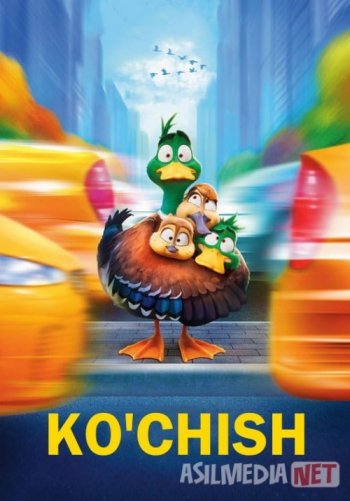
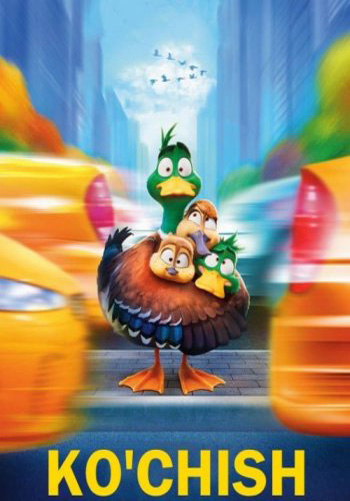
add new cartoon

diff --git a/index.html b/index.html
@@ -93,7 +93,7 @@
             <li class="multik_item">
                 <a href="https://t.me/Multikland_TV/1459">
                     <img src="./images/ajdar.png" alt="">
-                    <h4>Ajdar o'rgatuvchilar</h4>
+                    <h4>Ajdar orgatuvchilar</h4>
                 </a>
             </li>
 
@@ -154,6 +154,13 @@
             </li>
 
             <li class="multik_item">
+                <a href="https://t.me/Multikland_TV/1484">
+                    <img src="./images/orgimchak.jpg" alt="">
+                    <h4>Izquvar orgimchak</h4>
+                </a>
+            </li>
+
+            <li class="multik_item">
                 <a href="https://t.me/Multikland_TV/1322">
                     <img src="./images/elemental.jpg" alt="">
                     <h4>Elemental</h4>
@@ -198,14 +205,14 @@
             <li class="multik_item">
                 <a href="https://t.me/Multikland_TV/1456">
                     <img src="./images/garoyib_futbol.webp" alt="">
-                    <h4>G'aroyib futbol</h4>
+                    <h4>Garoyib futbol</h4>
                 </a>
             </li>
 
             <li class="multik_item">
                 <a href="https://t.me/Multikland_TV/1340">
                     <img src="./images/sirk.jpg" alt="">
-                    <h4>G'aroyib sirk</h4>
+                    <h4>Garoyib sirk</h4>
                 </a>
             </li>
 
@@ -261,7 +268,7 @@
             <li class="multik_item">
                 <a href="https://t.me/Multikland_TV/1440">
                     <img src="./images/kochish.jpg" alt="">
-                    <h4>Ko'chish</h4>
+                    <h4>Kochish</h4>
                 </a>
             </li>
 
@@ -338,7 +345,7 @@
             <li class="multik_item">
                 <a href="https://t.me/Multikland_TV/1390">
                     <img src="./images/robotdost.jpg" alt="">
-                    <h4>Mening robot do'stim</h4>
+                    <h4>Mening robot dostim</h4>
                 </a>
             </li>
 
@@ -346,6 +353,13 @@
                 <a href="https://t.me/Multikland_TV/1454">
                     <img src="./images/mumiyo.jpg" alt="">
                     <h4>Mitti mumiyolar</h4>
+                </a>
+            </li>
+
+            <li class="multik_item">
+                <a href="https://t.me/Multikland_TV/1487">
+                    <img src="./images/orion.jpg" alt="">
+                    <h4>Orion va zulmat</h4>
                 </a>
             </li>
 
@@ -359,28 +373,28 @@
             <li class="multik_item">
                 <a href="https://t.me/Multikland_TV/1433">
                     <img src="./images/olga.jpg" alt="">
-                    <h4>Olg'a</h4>
+                    <h4>Olga</h4>
                 </a>
             </li>
 
             <li class="multik_item">
                 <a href="https://t.me/Multikland_TV/1297">
                     <img src="./images/oyinchoqlar.jpg" alt="">
-                    <h4>O'yinchoqlar tarixi</h4>
+                    <h4>Oyinchoqlar tarixi</h4>
                 </a>
             </li>
 
             <li class="multik_item">
                 <a href="https://t.me/Multikland_TV/1435">
                     <img src="./images/sayyoralikmehmon.jpg" alt="">
-                    <h4>O'zga sayyoralik mehmon</h4>
+                    <h4>Ozga sayyoralik mehmon</h4>
                 </a>
             </li>
 
             <li class="multik_item">
                 <a href="https://t.me/Multikland_TV/1436">
                     <img src="./images/pishloq.jpg" alt="">
-                    <h4>Pishloq yomg'iri</h4>
+                    <h4>Pishloq yomgiri</h4>
                 </a>
             </li>
 
@@ -388,6 +402,13 @@
                 <a href="https://t.me/Multikland_TV/1431">
                     <img src="./images/qahramonlar.png" alt="">
                     <h4>Qahramonlar shahri</h4>
+                </a>
+            </li>
+
+            <li class="multik_item">
+                <a href="https://t.me/Multikland_TV/1486">
+                    <img src="./images/boshmoq.jpg" alt="">
+                    <h4>Qizil boshmoqcha va 7 gnom</h4>
                 </a>
             </li>
 
@@ -415,7 +436,7 @@
             <li class="multik_item">
                 <a href="https://t.me/Multikland_TV/1296">
                     <img src="./images/rubi.jpg" alt="">
-                    <h4>Rubi Gillman: O'smir kraken sarguzashtlari</h4>
+                    <h4>Rubi Gillman: Osmir kraken sarguzashtlari</h4>
                 </a>
             </li>
 
@@ -429,7 +450,7 @@
             <li class="multik_item">
                 <a href="https://t.me/Multikland_TV/1480">
                     <img src="./images/raya.jpg" alt="">
-                    <h4>Raya va so'ngi ajdarho</h4>
+                    <h4>Raya va songi ajdarho</h4>
                 </a>
             </li>
 
@@ -541,7 +562,7 @@
             <li class="multik_item">
                 <a href="https://t.me/Multikland_TV/1365">
                     <img src="./images/tushqoriqchilar.jpg" alt="">
-                    <h4>Tush qo'riqchilari</h4>
+                    <h4>Tush qoriqchilari</h4>
                 </a>
             </li>
 
@@ -576,7 +597,7 @@
             <li class="multik_item">
                 <a href="https://t.me/Multikland_TV/1351">
                     <img src="./images/yaxshi bolish.jpg" alt="">
-                    <h4>Yaxshi bo'lish osonmi?</h4>
+                    <h4>Yaxshi bolish osonmi?</h4>
                 </a>
             </li>
 

diff --git a/css/style.css b/css/style.css
@@ -199,12 +199,12 @@ main {
     position: absolute;
     background-color: #f1f1f1;
     border-radius: 5px;
-    top: 32%;
+    top: 35%;
     width: 80%;
     left: 10%;
     flex-direction: column;
     justify-content: space-between;
-    padding: 7px;
+    padding: 9px;
 }
 
 .row {
